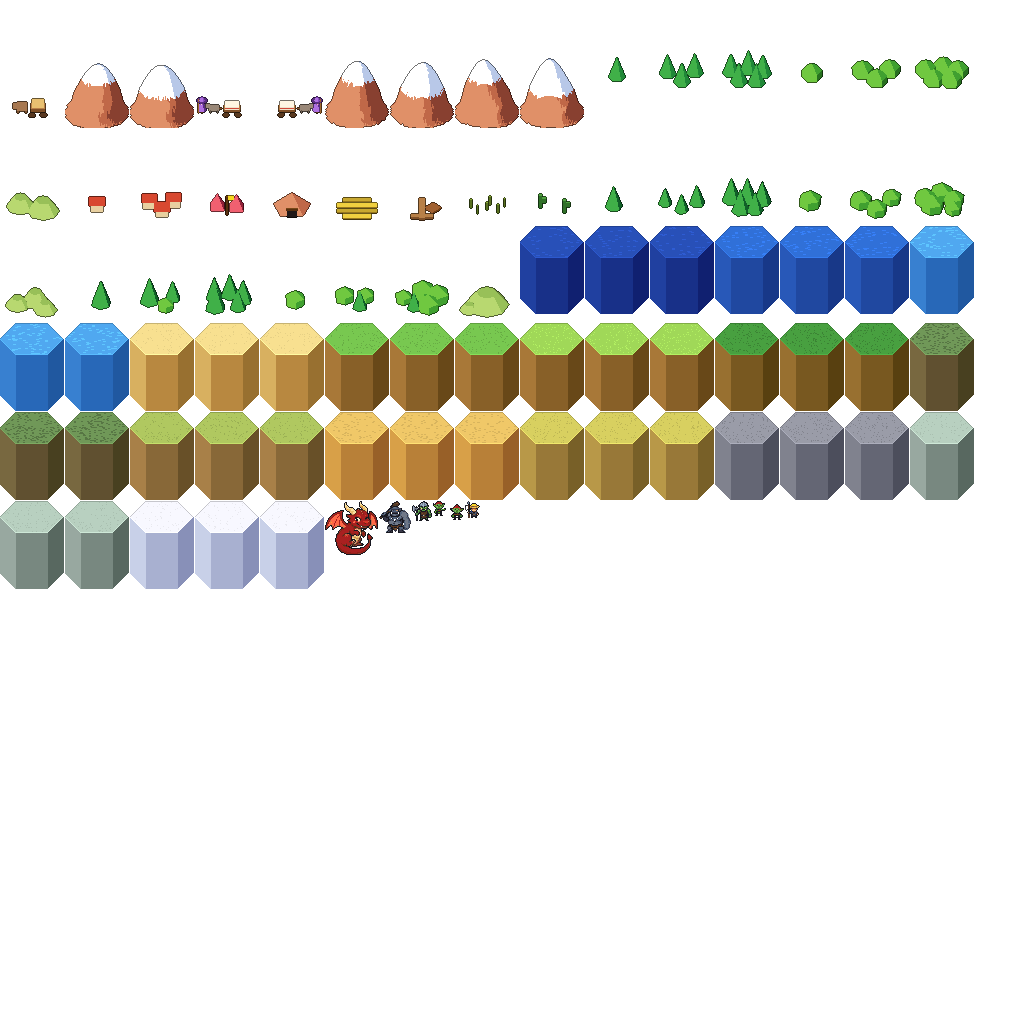
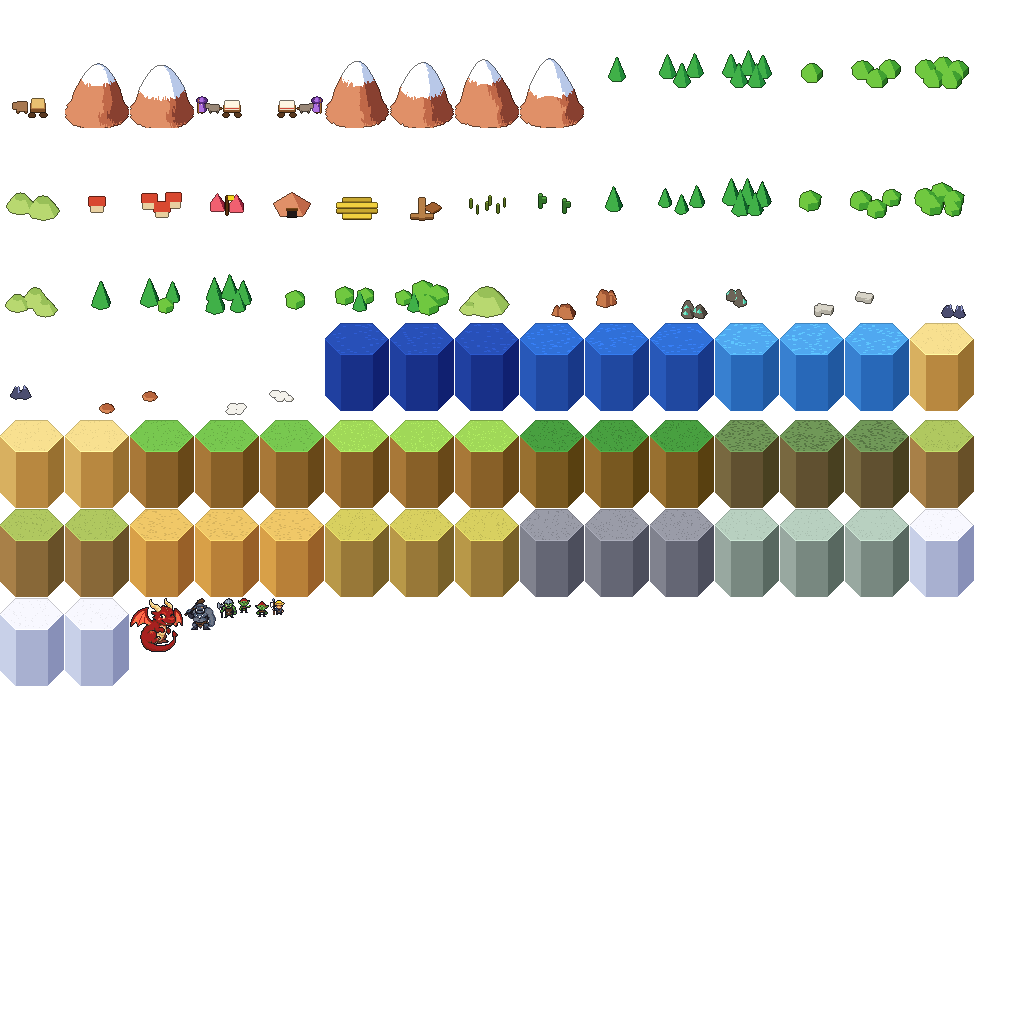
Deposits you can see: two-half outcrops for iron, copper, stone, tin, clay and salt (buildings take the far half), ore streaks in mountain rock, deposit notes on the hex card, and a prospect toggle
Claude-Session: https://claude.ai/code/session_019bZj63bfJ4yeeeApDeBWPP

Changed region(s): [[0.0, 0.2188, 0.9688, 0.6875]]

diff --git a/src/render/mountains.ts b/src/render/mountains.ts
@@ -22,8 +22,21 @@ const RED = [[0xe0, 0x90, 0x68], [0xc0, 0x68, 0x48], [0x88, 0x40, 0x30], [0x62, 
 const SNOW = [[0xff, 0xff, 0xff], [0xe4, 0xec, 0xf8], [0xb8, 0xc8, 0xe8], [0x9c, 0xb0, 0xd8]]
 const PINE = [[0x6c, 0xa8, 0x44], [0x4c, 0x88, 0x34], [0x36, 0x62, 0x28], [0x28, 0x4a, 0x20]] // forest on the lower slopes
 const WARM_TERRAIN = new Set(['desert', 'savannah'])
+// ore showing through the rock: copper's green-blue, iron's rust, tin's dark slate with pale glints
+const STAIN: Record<string, number[][]> = {
+  copper: [[0x7c, 0xe0, 0xc0], [0x3c, 0xb0, 0x90], [0x2a, 0x7c, 0x6c], [0x1e, 0x58, 0x50]],
+  iron: [[0xd0, 0x84, 0x58], [0xa8, 0x5c, 0x38], [0x78, 0x3e, 0x26], [0x56, 0x2c, 0x1c]],
+  tin: [[0xb0, 0xb8, 0xe8], [0x68, 0x6c, 0x98], [0x4a, 0x4c, 0x70], [0x34, 0x36, 0x52]],
+}
+const ORES = ['copper', 'iron', 'tin'] as const
 
 const isMountain = (f: string | null) => f === 'mountain' || f === 'mountain_snow'
+
+function strongest(ore: number[], all: number) {
+  let k = -1, best = 0
+  ore.forEach((v, j) => { if (v > best) { best = v; k = j } })
+  return { ore: k, oreW: best / all }
+}
 
 /** deterministic value noise in [0, 1] */
 function hash2(x: number, y: number, s: number) {
@@ -108,7 +121,7 @@ export class Mountains {
   private near(i: number) {
     const { world } = this
     const c = world.cells[i]
-    const out: { x: number; y: number; tier: number; cold: number; warm: number; m: boolean }[] = []
+    const out: { x: number; y: number; tier: number; cold: number; warm: number; m: boolean; ore: number }[] = []
     const seen = new Set<number>([i])
     let ring = [i]
     for (let r = 0; r < 3; r++) {
@@ -116,7 +129,7 @@ export class Mountains {
       for (const j of ring) {
         const cj = world.cells[j]
         const p = hexToPixel(cj.col, cj.row, this.W)
-        out.push({ x: p.x, y: p.y * K, tier: cj.tier, cold: cj.feature === 'mountain_snow' || cj.terrain === 'snow' || cj.terrain === 'tundra' ? 1 : 0, warm: WARM_TERRAIN.has(cj.terrain) ? 1 : 0, m: isMountain(cj.feature) })
+        out.push({ x: p.x, y: p.y * K, tier: cj.tier, cold: cj.feature === 'mountain_snow' || cj.terrain === 'snow' || cj.terrain === 'tundra' ? 1 : 0, warm: WARM_TERRAIN.has(cj.terrain) ? 1 : 0, m: isMountain(cj.feature), ore: ORES.indexOf(cj.resource as typeof ORES[number]) })
         if (r < 2) for (const [nc, nr] of neighbours(cj.col, cj.row)) {
           if (nc < 0 || nr < 0 || nc >= world.width || nr >= world.height) continue
           const k = nr * world.width + nc
@@ -141,12 +154,14 @@ export class Mountains {
       let m = 0, wt = 0, tsum = 0, cold = 0
       let mm = 0, all = 0 // soft mountain mask: share of nearby land that is mountain
       let warm = 0, chill = 0 // the land around: deserts warm the rock's colour, snowfields keep trees off
+      const ore = [0, 0, 0] // how strongly each ore shows here (fades smoothly away from its deposit hexes)
       let dM = Infinity, dN = Infinity
       for (const p of pts) {
         const d2 = (x - p.x) ** 2 + (y - p.y) ** 2
         const wm = Math.exp(-d2 * km)
         all += wm
         warm += wm * p.warm; chill += wm * p.cold
+        if (p.ore >= 0) ore[p.ore] += wm
         if (p.m) dM = Math.min(dM, d2)
         else dN = Math.min(dN, d2)
         if (p.m) {
@@ -155,7 +170,7 @@ export class Mountains {
           mm += wm
         }
       }
-      if (wt <= 0) return { alt: 0, snow: Infinity, ground: 0, warm: 0, cold: 0 }
+      if (wt <= 0) return { alt: 0, snow: Infinity, ground: 0, warm: 0, cold: 0, ore: -1, oreW: 0 }
       // rounded outline and gentle foothills from the blurred mask (no per-hex bumps)
       // the mask is 1/2 on the border with lowland hexes: height falls to nothing there
       const fade = Math.max(0, Math.min(1, (mm / all - 0.5) / 0.42))
@@ -172,14 +187,15 @@ export class Mountains {
       const crown = 1.6 * W
       const eased = crown * Math.tanh(raw / crown)
       const tier = tsum / wt
-      const snowLine = TP * 6 + W * (0.85 - 0.45 * (cold / wt))
+      const snowLine = TP * 6 + W * (0.9 - 0.38 * (cold / wt))
       // jaggedness: mid-sized knobs over the whole surface, strongest up high
       const h = eased * Math.pow(edge, 0.8) + fine * W * (0.05 + 0.1 * Math.min(1, eased / W)) * edge
-      return { alt: tier * TP + Math.max(0, h), snow: snowLine, ground: tier * TP, warm: Math.min(1, (warm / all) * 2.5), cold: Math.min(1, chill / all + cold / wt) }
+      return { alt: tier * TP + Math.max(0, h), snow: snowLine, ground: tier * TP, warm: Math.min(1, (warm / all) * 2.5), cold: Math.min(1, chill / all + cold / wt), ...strongest(ore, all) }
     }
   }
 
   // ------------------------------------------------------------ rasterising
+
 
   private draw(i: number): Slice | null {
     const { world, W, TP } = this
@@ -199,6 +215,7 @@ export class Mountains {
     const rows = Math.round((2 * hh) / STEP) + 1
     const Z = new Float32Array(rows * w), SN = new Float32Array(rows * w), ALT = new Float32Array(rows * w)
     const GR = new Float32Array(rows * w), WM = new Float32Array(rows * w), CD = new Float32Array(rows * w)
+    const OK = new Int8Array(rows * w).fill(-1), OW = new Float32Array(rows * w)
     for (let r = 0; r < rows; r++) {
       const dy = -hh + r * STEP
       for (let col = 0; col < w; col++) {
@@ -212,6 +229,8 @@ export class Mountains {
         GR[r * w + col] = f.ground
         WM[r * w + col] = f.warm
         CD[r * w + col] = f.cold
+        OK[r * w + col] = f.ore
+        OW[r * w + col] = f.oreW
       }
     }
     // round off the sharpest tips: two light smoothing passes over the grid
@@ -270,6 +289,16 @@ export class Mountains {
             // treeline: solid forest low down, thinning out (dithered) over a narrow band at its top
             const line = (0.13 + 0.12 * vnoise(gx / (0.5 * W), gy / (0.5 * W), this.seed + 41)) * W
             if (rel < line - 2 || (rel < line + 2 && hash2(gx, y, 11) < (line + 2 - rel) / 4)) { pal = PINE; t = Math.min(3, tone + 1) }
+          }
+          // ore: streaks of colour down the rock near a deposit, densest at its heart
+          if (!pal && OK[k] >= 0 && OW[k] > 0.2) {
+            const streak = vnoise(gx / (0.11 * W), alt / (0.45 * W), this.seed + 51 + OK[k])
+            if (streak > 0.86 - 0.16 * Math.min(1, OW[k]) && hash2(Math.floor(gx / 2), Math.floor(alt / 3), 19) < 0.8) {
+              const kind = ORES[OK[k]]
+              pal = STAIN[kind]
+              // tin glints: the odd pale speck
+              if (kind === 'tin' && hash2(gx, y, 17) < 0.12) t = 0
+            }
           }
           const rgb = (pal ?? ROCK)[Math.min(t, 3)]
           const o = (y * w + col) * 4

diff --git a/src/render/MapView.ts b/src/render/MapView.ts
@@ -18,6 +18,7 @@ import type { World } from '../world/types'
 import type { BuildingId } from '../game/data'
 import type { GameState } from '../game/types'
 import { landAt, territoryCells } from '../game/reducer'
+import { isDeposit } from '../world/land'
 import { People } from './people'
 import { Traders } from './traders'
 import type { Atlas } from './atlas'
@@ -35,6 +36,8 @@ export interface SceneInput {
   showAll?: boolean
   /** a guest: no player, but sees only what the world's players have explored */
   guest?: boolean
+  /** prospecting: dim everything except deposits worth mining or gathering */
+  prospect?: boolean
   today: string
 }
 
@@ -304,6 +307,8 @@ export class MapView {
       const tier = known ? cell.tier : 0
       const cx = p.x, cy = p.y - tier * TP
       const land = known ? landAt(world, state, i, input.today) : null
+      const deposit = !!land && isDeposit(land.resource, land.feature)
+      const dim = !!input.prospect && known && !deposit
       const terrainName = land ? `t_${land.terrain}_${(cell.col * 7 + cell.row * 13) % 3}` : `t_deep_${(cell.col + cell.row) % 3}`
       const t = this.atlas.tex(terrainName)
       if (t) {
@@ -314,6 +319,7 @@ export class MapView {
         if (!known) s.tint = 0x3a3a58
         else if (hl.has(i)) s.tint = 0xfff0a0
         else if (blocked.has(i) && cell.tier > 0) s.tint = 0xffb4a8
+        else if (dim) s.tint = DIM
         s.zIndex = z(i, 0)
         this.cells.addChild(s)
       }
@@ -353,8 +359,19 @@ export class MapView {
         : null
       // mines and quarries are dug into the mountain: keep the peak, put the shaft in front
       const dug = thing?.name === 'f_mine' && (land!.feature === 'mountain' || land!.feature === 'mountain_snow' || land!.feature === 'hills')
-      const layers: { name: string; alpha: number; dy: number }[] = []
-      if (dug && natural) layers.push({ name: natural, alpha: 1, dy: 0 }, { name: 'f_mine', alpha: thing!.alpha ?? 1, dy: Math.round(W / 10) })
+      const layers: { name: string; alpha: number; dx?: number; dy: number }[] = []
+      // an outcrop on open ground says what's in it (on mountains, the ore stains the rock instead).
+      // It comes in two halves: a mine, house, town or lair here takes the far half, and the near half stays.
+      const outcrop = deposit && !MOUNTAIN_FEATURE.has(land!.feature ?? '')
+      const ore = (part: 'front' | 'back') => ({ name: `f_ore_${land!.resource}_${part}`, alpha: 1, dy: 0 })
+      if (outcrop) {
+        const far = { dx: -Math.round(W * 0.15), dy: -Math.round(W * 0.07) }
+        if (thing) layers.push({ name: dug ? 'f_mine' : thing.name, alpha: thing.alpha ?? 1, ...far }, ore('front'))
+        // clay and salt are common and low: just the near half
+        else if (land!.resource === 'clay' || land!.resource === 'salt') layers.push(...(natural ? [{ name: natural, alpha: 1, dy: 0 }] : []), ore('front'))
+        else layers.push(ore('back'), ...(natural ? [{ name: natural, alpha: 1, dy: 0 }] : []), ore('front'))
+      }
+      else if (dug && natural) layers.push({ name: natural, alpha: 1, dy: 0 }, { name: 'f_mine', alpha: thing!.alpha ?? 1, dy: Math.round(W / 10) })
       else if (dug) layers.push({ name: 'f_mine', alpha: thing!.alpha ?? 1, dy: 0 })
       else if (thing) layers.push({ name: thing.name, alpha: thing.alpha ?? 1, dy: 0 })
       else if (natural) layers.push({ name: natural, alpha: 1, dy: 0 })
@@ -367,6 +384,7 @@ export class MapView {
             s.cullable = true
             s.x = cx + m.ox
             s.y = cy + m.oy
+            if (dim) s.tint = DIM
             s.zIndex = z(i, 3)
             this.cells.addChild(s)
           }
@@ -378,9 +396,10 @@ export class MapView {
         s.cullable = true
         // anchored at its foot, so trees can sway from the ground
         s.anchor.set(f.frame.ax / f.frame.w, f.frame.ay / f.frame.h)
-        s.x = cx
+        s.x = cx + (l.dx ?? 0)
         s.y = cy + l.dy
         s.alpha = l.alpha
+        if (dim) s.tint = DIM
         s.zIndex = z(i, 3)
         this.cells.addChild(s)
         if (l.name === 'f_farm' && l.alpha === 1) {
@@ -755,6 +774,9 @@ export const ZOOMS = [0.125, 0.25, 0.5, 1, 2, 3, 4, 5, 6]
 /** Corners of the projected top face (flat-top hex squashed to W x W/2),
  *  clockwise from the right-hand point. */
 const WATER = new Set(['deep', 'ocean', 'shallow'])
+const MOUNTAIN_FEATURE = new Set(['mountain', 'mountain_snow'])
+const DIM = 0x5c5c70
+
 
 /** A hex's slightly off-centre middle, so roads and rivers bend a little (stable per hex). */
 function bendPoint(seed: number, cx: number, cy: number, W: number): [number, number] {

diff --git a/src/ui/Inspector.tsx b/src/ui/Inspector.tsx
@@ -1,11 +1,22 @@
 import { useState } from 'react'
 import { ACTIONS, BUILDINGS, GOOD_LABEL, type ActionKind, type BuildingDef, type Good } from '../game/data'
 import { buildCost, buildingAt, cellIndex, fmtGoods, inTerritory, landAt, logText, villageAt } from '../game/reducer'
-import { hasTrees } from '../world/land'
+import { hasTrees, isDeposit } from '../world/land'
 import type { Player } from '../game/types'
 import type { Game } from '../app/store'
 import { ROLE_INFO, shareSpot, tryAction } from './helpers'
 import { Icon } from './Icon'
+
+
+/** What a deposit is good for (shown on the hex card). */
+const DEPOSIT_NOTE: Record<string, string> = {
+  iron: 'Iron deposit: a Deep iron mine could go here (big task). Iron makes better tools and weapons.',
+  copper: 'Copper deposit: a Copper mine could go here (big task). Copper plus a little tin makes bronze.',
+  tin: 'Tin! Rare: gather it (small task) and trade it. A little tin turns copper into bronze.',
+  stone: 'Building stone: a Quarry could go here (medium task), or gather stone by hand (small task).',
+  clay: 'River clay: gather it (small task) for a Brick kiln.',
+  salt: 'Salt: gather it (small task), or build Salt pans on the shore (medium task). Salt keeps cheese and fish.',
+}
 
 const TERRAIN_NAME: Record<string, string> = {
   deep: 'Deep sea', ocean: 'Sea', shallow: 'Shallows', beach: 'Beach', grass: 'Grassland', meadow: 'Meadow',
@@ -90,6 +101,9 @@ export function Inspector({ game, p, col, row, onClose, notify }: {
   return (
     <Shell onClose={onClose} title={title} onShare={share}>
       <p className="muted" style={{ margin: 0 }}>{sub}</p>
+      {!here && !village && land.resource && DEPOSIT_NOTE[land.resource] && isDeposit(land.resource, land.feature) && (
+        <p className="deposit" style={{ margin: '4px 0' }}>⛏ {DEPOSIT_NOTE[land.resource]}</p>
+      )}
       {village && <p style={{ margin: '4px 0' }}>{ROLE_INFO[village.role]?.name} · 👥 {Math.floor(village.population)} · morale {village.morale}</p>}
       {here && here.building.progress < 1 && <p style={{ margin: '4px 0' }}>Half built — spend another medium/big task to finish.</p>}
       {here && <p className="muted" style={{ margin: '4px 0' }}>{BUILDINGS[here.building.type].blurb}</p>}

diff --git a/src/App.tsx b/src/App.tsx
@@ -113,6 +113,8 @@ function Main({ game }: { game: Game }) {
   // a shared link (?at=col,row) centres on that hex, marks it, and opens it for existing players
   const [linked] = useState(() => linkedSpot(game.world))
   const [sel, setSel] = useState<{ col: number; row: number } | null>(() => (game.meta.activePlayer ? linked : null))
+  // prospecting: dim everything but deposits (ore, building stone, clay, salt)
+  const [prospect, setProspect] = useState(false)
   const [preview, setPreview] = useState<Spot | null>(null)
   const [placing, setPlacing] = useState(false)
   const placingRef = useRef(false)
@@ -183,7 +185,7 @@ function Main({ game }: { game: Game }) {
   useEffect(() => {
     const view = viewRef.current
     if (!view || !ready) return
-    view.render({ world: game.world, state: game.state, viewer: p?.id ?? null, selected: placing ? null : sel, highlight, blocked, focus, showAll: placing, guest: game.guest, today })
+    view.render({ world: game.world, state: game.state, viewer: p?.id ?? null, selected: placing ? null : sel, highlight, blocked, focus, showAll: placing, guest: game.guest, today, prospect })
   })
 
   // centre the camera on the village (or the starter region) once
@@ -265,6 +267,9 @@ function Main({ game }: { game: Game }) {
           <button className="btn icon" title="Back to your village" aria-label="Back to your village"
             onClick={() => viewRef.current?.centreOn(v.col, v.row, game.world.cells[v.row * game.world.width + v.col].tier)}>⌂</button>
         )}
+        <button className={`btn icon ${prospect ? 'on' : ''}`} aria-pressed={prospect}
+          title={prospect ? 'Stop prospecting' : 'Prospect: show what is in the ground'} aria-label="Prospect"
+          onClick={() => setProspect(!prospect)}>⛏</button>
       </div>
 
       {p && p.tokens.length > 0 && !sel && (

diff --git a/src/ui/Help.tsx b/src/ui/Help.tsx
@@ -129,6 +129,12 @@ export function Help({ onClose }: { onClose: () => void }) {
             <li>An <b>expedition</b> (big action) takes on a lair for loot. Food, metal weapons, leather and an outfitter make it likelier to win.</li>
             <li>Merchant caravans pass through now and then on their way to trade. They're just passing; enjoy the view.</li>
           </ul>
+          <p>
+            <b>What's in the ground:</b> outcrops show deposits: rusty boulders for iron, dark rock with green-blue veins for
+            copper, pale slabs for building stone, dark crystals for rare tin, red banks of river clay and white salt
+            crusts. In the mountains, ore streaks the rock itself: green-blue for copper, rust for iron. Tap a hex to see
+            what you could build there, or press ⛏ by the zoom buttons to dim everything except deposits.
+          </p>
           <p>Drag to move around; pinch, scroll or use ＋/－ to zoom. Zoom right out to see the whole continent.</p>
         </details>
 

diff --git a/src/world/land.ts b/src/world/land.ts
@@ -24,3 +24,11 @@ export const isOpen = (l: Land) => l.tier > 0 && OPEN_TERRAIN.includes(l.terrain
 export const isVillageSite = (l: Land) => isOpen(l) && l.terrain !== 'hills'
 
 export const cellLand = (c: Cell): Land => ({ terrain: c.terrain, feature: c.feature, tier: c.tier })
+
+/** Deposits worth showing on the map: ores, building stone (off the mountains,
+ *  where all rock is stone), clay and salt. */
+const DEPOSITS = new Set(['iron', 'copper', 'tin', 'stone', 'clay', 'salt'])
+export function isDeposit(resource: string | null | undefined, feature: string | null | undefined) {
+  if (!resource || !DEPOSITS.has(resource)) return false
+  return resource !== 'stone' || (feature !== 'mountain' && feature !== 'mountain_snow')
+}

diff --git a/src/index.css b/src/index.css
@@ -279,3 +279,7 @@ b, strong { font-weight: 400; text-shadow: 1px 0 0 currentColor; }
 .week .wday.today small { text-decoration: underline; }
 .week small { line-height: 0.8; }
 .week .avg { align-self: center; margin-left: 4px; }
+
+/* prospecting button (on while dimming everything but deposits) */
+.btn.icon.on { background: var(--gold); }
+.inspector .deposit { color: var(--ink); }

diff --git a/tools/blender/render_tiles.py b/tools/blender/render_tiles.py
@@ -419,6 +419,75 @@ def feat_cactus():
     return build
 
 
+# ---------------------------------------------------------------- deposits
+# Outcrops that say what's in the ground: small, low clusters sitting toward
+# the front-right of the hex (so trees or a cactus can share it), each kind
+# with its own colour and shape so they read at a glance.
+
+def feat_ore(kind, part):
+    """One half of a deposit's outcrop: "front" (near side, toward the front-right)
+    or "back" (far side, toward the back-left). A mine or quarry takes the back
+    half's place; the front half stays to show what's being dug."""
+    p = PAL["features"]
+    rng = random.Random(f"ore:{kind}:{part}")
+    ox, oy = (0.3, -0.3) if part == "front" else (-0.3, 0.28)
+
+    def at(dx, dy):
+        return (ox + dx + rng.uniform(-0.05, 0.05), oy + dy + rng.uniform(-0.04, 0.04))
+
+    def boulder(x, y, r, h, col, light, dark):
+        cone((x, y, 0), r, h, col, segs=5, r_top=r * 0.35, rot=rng.uniform(0, 1.2), shade=(light, dark))
+
+    spots = [(-0.14, 0.1), (0.1, 0.08), (0.0, -0.07), (0.16, -0.1), (-0.16, -0.08)]
+    rng.shuffle(spots)
+
+    def build(W):
+        if kind == "iron":
+            for k, (dx, dy) in enumerate(spots[:4]):
+                x, y = at(dx, dy)
+                boulder(x, y, rng.uniform(0.13, 0.2) * (1.3 if k == 0 else 1), rng.uniform(0.16, 0.26) * (1.5 if k == 0 else 1),
+                        p["iron"], p["iron_light"], p["iron_dark"])
+        elif kind == "copper":
+            for k, (dx, dy) in enumerate(spots[:3]):
+                x, y = at(dx, dy)
+                r, h = rng.uniform(0.14, 0.2), rng.uniform(0.18, 0.3)
+                boulder(x, y, r, h, p["copper_rock"], p["copper_rock"], p["copper_rock_dark"])
+                # bright green-blue veins breaking out of the rock
+                for j in range(2):
+                    a = rng.uniform(0, 6.28)
+                    cone((x + math.cos(a) * r * 0.6, y + math.sin(a) * r * 0.6, h * rng.uniform(0.2, 0.6)), 0.075, 0.11,
+                         p["copper"], segs=4, shade=(p["copper_light"], p["copper"]))
+        elif kind == "stone":
+            # pale slabs and a cut ledge: a quarry waiting to happen
+            x, y = at(0, 0.05)
+            box((x, y, 0), (0.42, 0.22, 0.12), p["stone_light"], (p["stone"], p["stone"], p["stone_dark"]), rot=rng.uniform(-0.3, 0.3))
+            for (dx, dy) in spots[:3]:
+                x, y = at(dx, dy)
+                box((x, y, 0), (rng.uniform(0.1, 0.16), rng.uniform(0.08, 0.12), rng.uniform(0.08, 0.16)),
+                    p["stone_light"], (p["stone"], p["stone"], p["stone_dark"]), rot=rng.uniform(0, 1.5))
+        elif kind == "tin":
+            for (dx, dy) in spots[:2]:
+                x, y = at(dx, dy)
+                boulder(x, y, 0.17, 0.22, p["tin"], p["tin"], p["tin_dark"])
+                for j in range(3):
+                    cone((x + rng.uniform(-0.08, 0.08), y + rng.uniform(-0.06, 0.06), 0.12), 0.035, rng.uniform(0.14, 0.22),
+                         p["tin_light"], segs=4, shade=(p["tin_light"], p["tin"]))
+        elif kind == "clay":
+            # a low, small cut bank of red clay
+            x, y = at(0, 0)
+            cone((x, y, 0), 0.2, 0.05, p["clay"], segs=8, r_top=0.15, shade=(p["clay_light"], p["clay_dark"]))
+            box((x + 0.03, y - 0.13, 0), (0.16, 0.04, 0.045), p["clay_light"], (p["clay_dark"], p["clay_dark"], p["clay_dark"]))
+        elif kind == "salt":
+            for (dx, dy) in spots[:4]:
+                x, y = at(dx * 1.2, dy * 1.2)
+                cone((x, y, 0), rng.uniform(0.1, 0.16), 0.03, p["salt"], segs=6, r_top=rng.uniform(0.06, 0.12), shade=(p["salt"], p["salt_dark"]))
+    return build
+
+
+ORES = ("iron", "copper", "stone", "tin", "clay", "salt")
+ORE_SCALE = 1.15
+
+
 # ---------------------------------------------------------------- creatures
 # Built big and blocky on purpose: silhouettes must read at 24 px. Each one
 # is ~0.8-1.2 hex tall, with one bright accent colour (club, cap, axe, wings).
@@ -606,6 +675,9 @@ FEATURES = {
     "lair": feat_lair(), "mine": feat_mine(), "farm": feat_farm(), "dock": feat_dock(),
     "reeds": feat_reeds(), "cactus": feat_cactus(),
 }
+for _o in ORES:
+    for _part in ("front", "back"):
+        FEATURES[f"ore_{_o}_{_part}"] = feat_ore(_o, _part)
 # variants (f_<name>_v1, f_<name>_v2) so forests and ranges don't look stamped
 for _v in (1, 2):
     for _k in ("pine", "oak"):
@@ -642,7 +714,7 @@ def main():
             continue
         clear_objects()
         build(W)
-        k = CREATURE_SCALE.get(name)
+        k = CREATURE_SCALE.get(name) or (ORE_SCALE if name.startswith("ore_") else None)
         if kind == "features" and k:
             for ob in bpy.data.objects:
                 ob.scale = (k, k, k)
